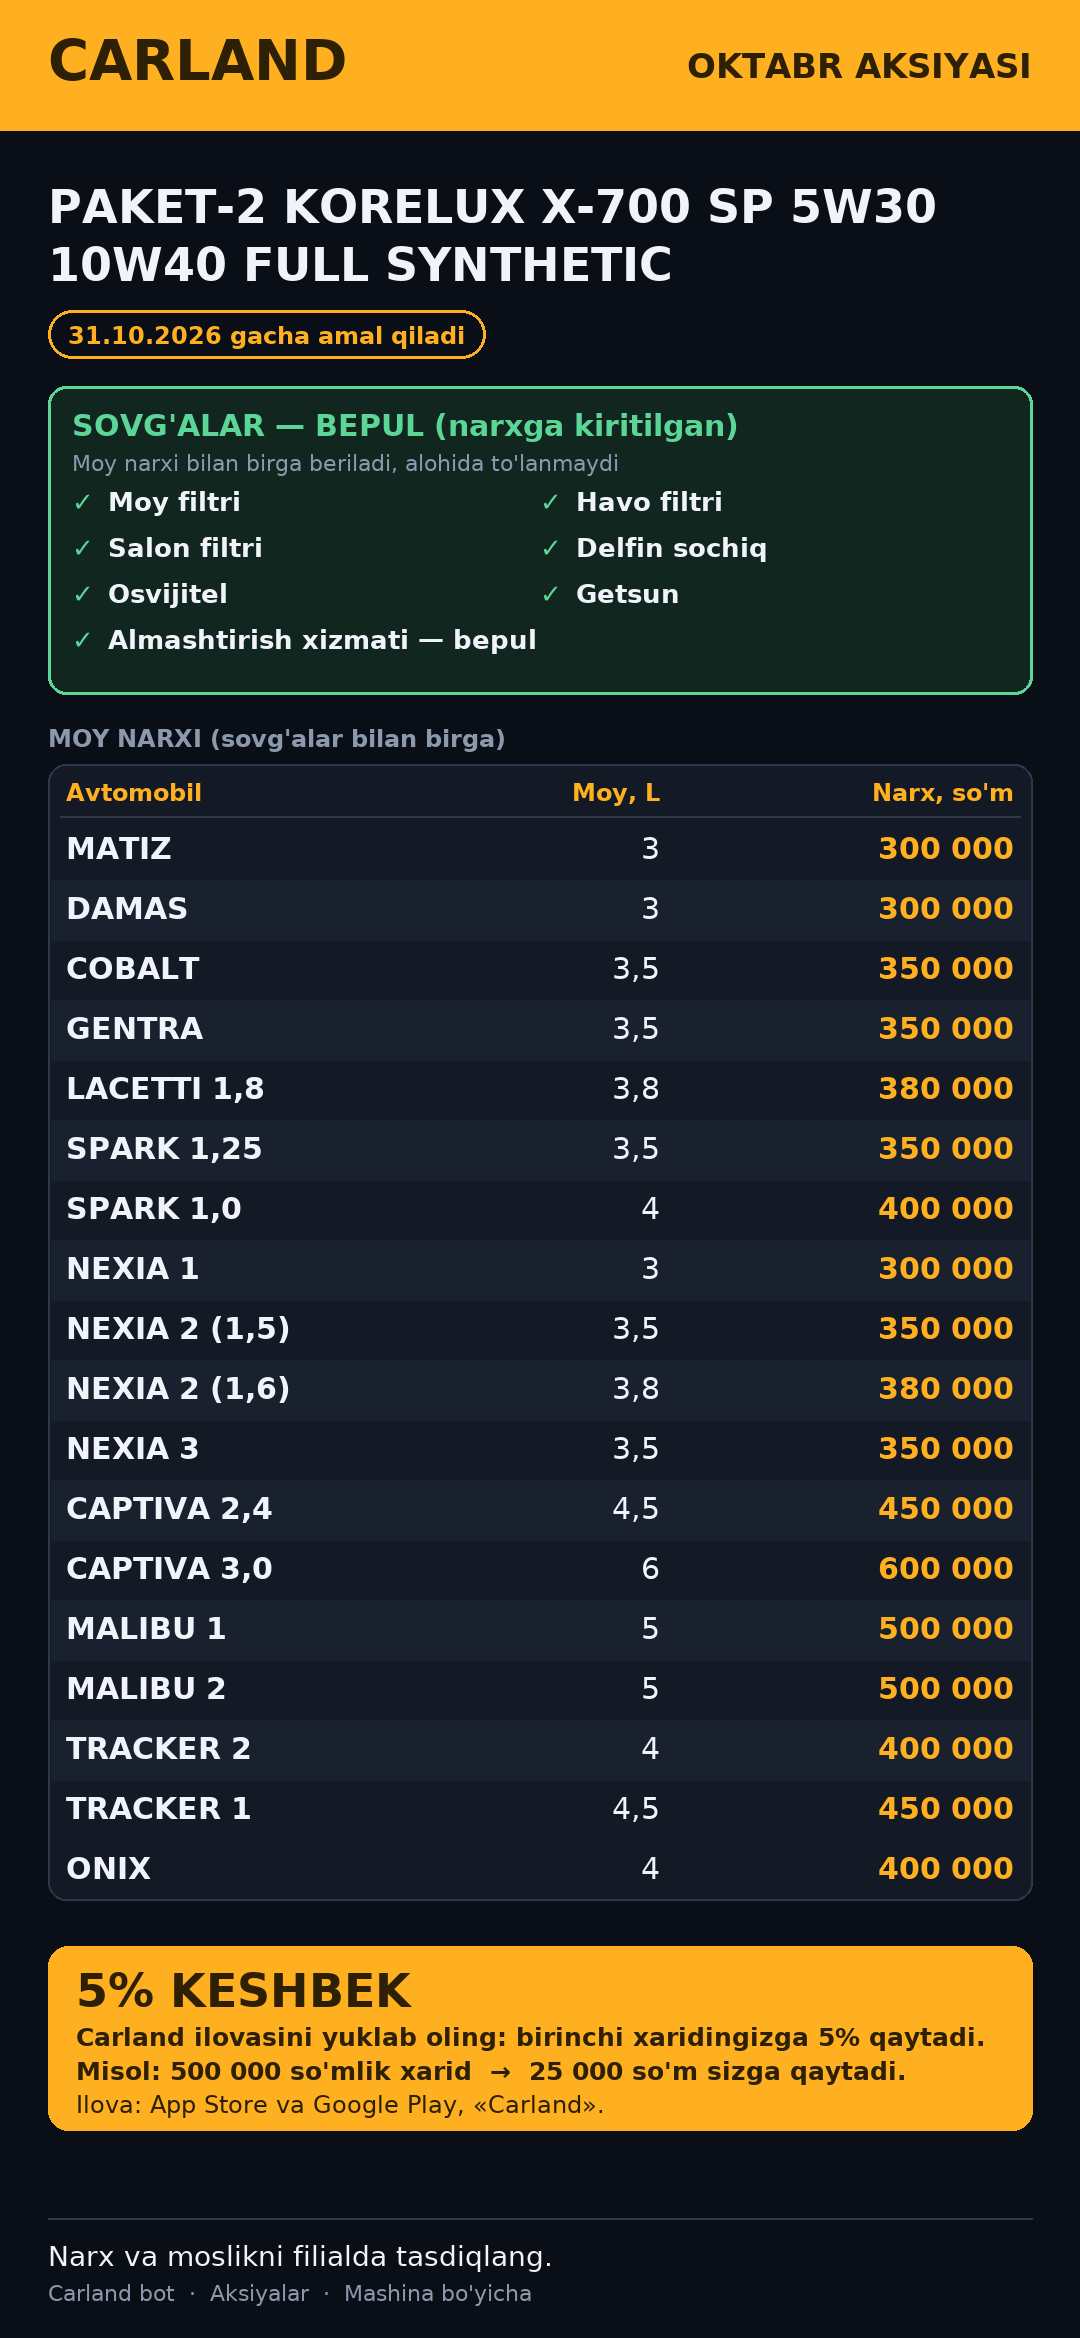
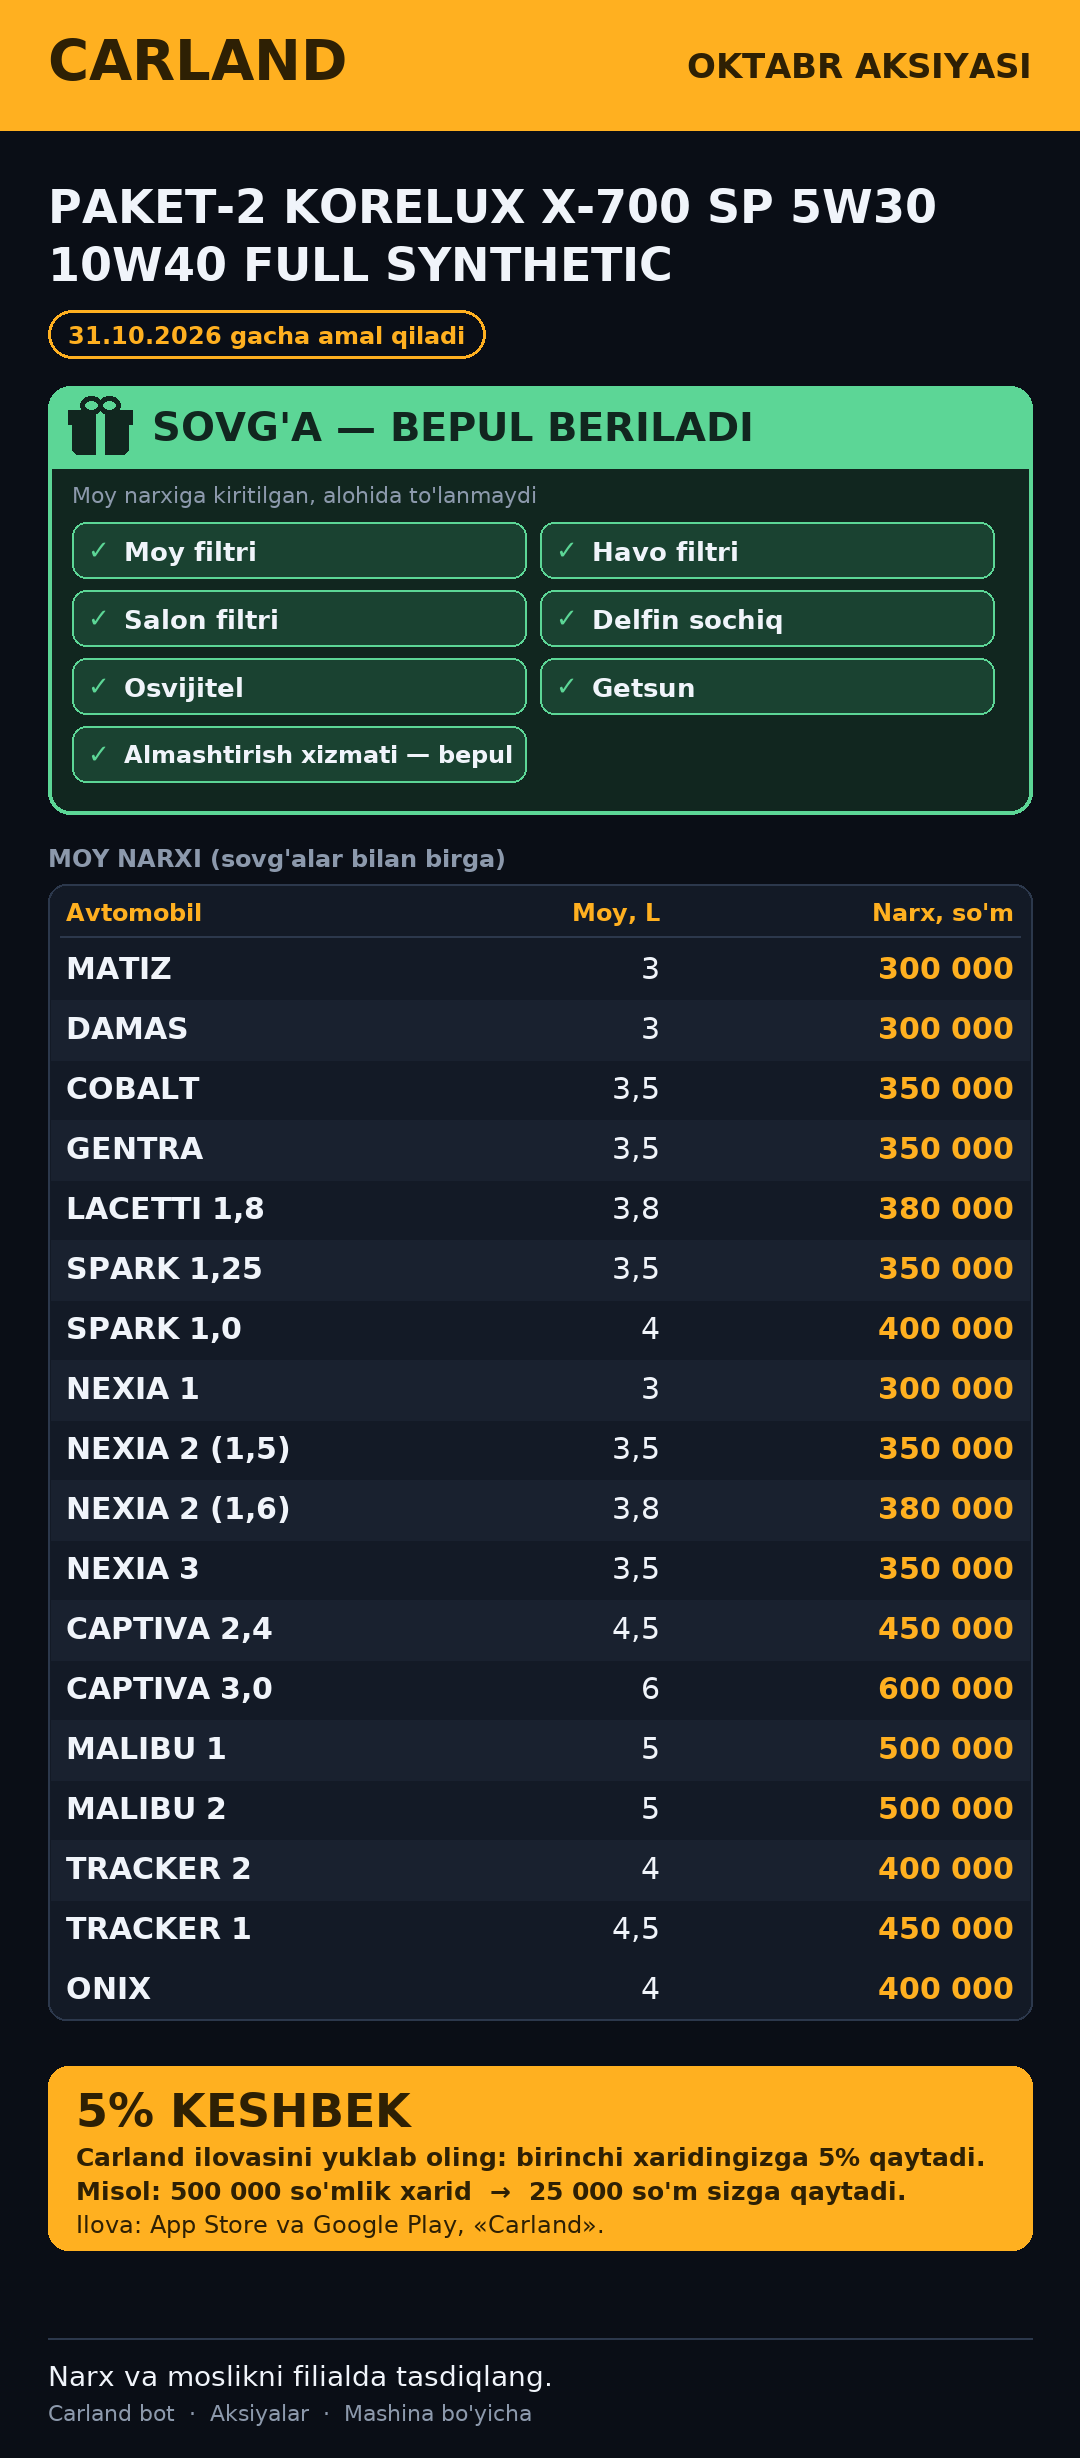
Keshbek va sovg'a ko'zga tashlanadigan: menyuda eng tepada, /keshbek va /aksiya buyruqlari, plakatda katta yashil SOVG'A bloki

Changed region(s): [[0.0306, 0.0, 0.9778, 0.9991]]

diff --git a/bot/promo_posters.py b/bot/promo_posters.py
@@ -191,7 +191,7 @@ def render(key: str, pkg: dict) -> Image.Image:
         gifts.append(text)
     gift_cols = 2
     gift_rows_n = (len(gifts) + gift_cols - 1) // gift_cols
-    h_gifts = (24 + 40 + 36 + gift_rows_n * 46 + 24) if gifts else 0
+    h_gifts = (82 + 54 + gift_rows_n * 68 + 20) if gifts else 0
     h_cash = 230
     row_h = 66 if has_codes or is_ev else 60
     head_h = 78 if is_ev else 56
@@ -220,18 +220,33 @@ def render(key: str, pkg: dict) -> Image.Image:
         d.rounded_rectangle([PAD, ty + 14, PAD + bw, ty + 14 + 48], radius=24, outline=AMBER, width=3)
         d.text((PAD + 20, ty + 14 + 11), label, font=f_head, fill=AMBER)
     ty += 90
-    # sovg'alar bloki (alohida, yashil)
+    # sovg'alar bloki (alohida, yashil, ko'zga tashlanadigan)
     if gifts:
-        d.rounded_rectangle([PAD, ty, W - PAD, ty + h_gifts], radius=18, fill=(17, 38, 31), outline=GREEN, width=3)
-        d.text((PAD + 24, ty + 22), "SOVG'ALAR — BEPUL (narxga kiritilgan)", font=_font(True, 30), fill=GREEN)
-        d.text((PAD + 24, ty + 64), "Moy narxi bilan birga beriladi, alohida to'lanmaydi", font=f_small, fill=MUTED)
-        gy = ty + 24 + 40 + 36
+        GREEN_DARK = (17, 38, 31)
+        d.rounded_rectangle([PAD, ty, W - PAD, ty + h_gifts], radius=22, fill=GREEN_DARK, outline=GREEN, width=4)
+        d.rounded_rectangle([PAD, ty, W - PAD, ty + 82], radius=22, fill=GREEN)
+        d.rectangle([PAD, ty + 50, W - PAD, ty + 82], fill=GREEN)
+        # sovg'a quti belgisi
+        gx, gy = PAD + 24, ty + 14
+        d.rounded_rectangle([gx, gy + 18, gx + 56, gy + 54], radius=6, fill=(17, 38, 31))
+        d.rectangle([gx - 4, gy + 10, gx + 60, gy + 24], fill=(17, 38, 31))
+        d.rectangle([gx + 24, gy + 10, gx + 32, gy + 54], fill=GREEN)
+        d.ellipse([gx + 8, gy - 4, gx + 30, gy + 14], outline=(17, 38, 31), width=5)
+        d.ellipse([gx + 26, gy - 4, gx + 48, gy + 14], outline=(17, 38, 31), width=5)
+        d.text((PAD + 104, ty + 17), "SOVG'A — BEPUL BERILADI", font=_font(True, 40), fill=(17, 38, 31))
+        d.text((PAD + 24, ty + 96), "Moy narxiga kiritilgan, alohida to'lanmaydi", font=f_small, fill=MUTED)
+        gy = ty + 82 + 54
         colw = (inner - 48) // gift_cols
         for i, g in enumerate(gifts):
             cx = PAD + 24 + (i % gift_cols) * colw
-            cy = gy + (i // gift_cols) * 46
-            d.text((cx, cy), "✓", font=f_chip, fill=GREEN)
-            d.text((cx + 36, cy), g, font=f_chip, fill=WHITE)
+            cy = gy + (i // gift_cols) * 68
+            d.rounded_rectangle([cx, cy, cx + colw - 14, cy + 56], radius=14, fill=(26, 66, 49), outline=GREEN, width=2)
+            d.text((cx + 16, cy + 12), "✓", font=f_chip, fill=GREEN)
+            gtxt = g
+            gf = _font(True, 26)
+            while d.textlength(gtxt, font=gf) > colw - 14 - 64 and gf.size > 18:
+                gf = _font(True, gf.size - 1)
+            d.text((cx + 52, cy + 14), gtxt, font=gf, fill=WHITE)
         ty += h_gifts + 30
     d.text((PAD, ty), "MOY NARXI (sovg'alar bilan birga)", font=f_head, fill=MUTED)
     ty += 40

diff --git a/bot/keyboards.py b/bot/keyboards.py
@@ -8,6 +8,9 @@ ADMIN_USERNAME = "carland_01"
 
 def main_menu(lang: str = "uz", has_recent: bool = False):
     rows = [
+        # eng ko'zga tashlanadigan joyda: keshbek va aksiya/sovg'alar
+        [InlineKeyboardButton(t("menu_cashback", lang), callback_data="menu:cashback")],
+        [InlineKeyboardButton(t("menu_promo", lang), callback_data="menu:promohub")],
         [InlineKeyboardButton(t("menu_oilcalc", lang), callback_data="menu:oilcalc:0")],
         [InlineKeyboardButton(t("menu_products", lang), callback_data="menu:products")],
     ]
@@ -19,34 +22,11 @@ def main_menu(lang: str = "uz", has_recent: bool = False):
     rows += [
         [InlineKeyboardButton(t("menu_info", lang), callback_data="menu:info:0")],
         [InlineKeyboardButton(t("menu_branches", lang), callback_data="menu:branches")],
-        [InlineKeyboardButton(t("menu_promo", lang), callback_data="menu:promohub")],
-        [InlineKeyboardButton(t("menu_cashback", lang), callback_data="menu:cashback")],
         [InlineKeyboardButton(t("menu_app_ios", lang), url=config.APP_STORE_URL),
          InlineKeyboardButton(t("menu_app_android", lang), url=config.PLAY_STORE_URL)],
         [InlineKeyboardButton(t("menu_ai", lang), callback_data="menu:ai")],
         [InlineKeyboardButton(t("menu_admin", lang), url=f"https://t.me/{ADMIN_USERNAME}")],
         [InlineKeyboardButton(t("menu_lang", lang), callback_data="menu:lang")],
-    ]
-    return InlineKeyboardMarkup(rows)
-
-
-def cashback_menu(lang: str = "uz"):
-    rows = [
-        [InlineKeyboardButton(t("menu_app_ios", lang), url=config.APP_STORE_URL),
-         InlineKeyboardButton(t("menu_app_android", lang), url=config.PLAY_STORE_URL)],
-        [InlineKeyboardButton(t("menu_admin", lang), url=f"https://t.me/{ADMIN_USERNAME}")],
-        [InlineKeyboardButton(t("home_btn", lang), callback_data="menu:main")],
-    ]
-    return InlineKeyboardMarkup(rows)
-
-
-def promo_hub(lang: str = "uz"):
-    rows = [
-        [InlineKeyboardButton(t("promo_posters_btn", lang), callback_data="promo:posters")],
-        [InlineKeyboardButton(t("promo_by_car_btn", lang), callback_data="menu:promo:0")],
-        [InlineKeyboardButton(t("menu_app_ios", lang), url=config.APP_STORE_URL),
-         InlineKeyboardButton(t("menu_app_android", lang), url=config.PLAY_STORE_URL)],
-        [InlineKeyboardButton(t("back_home_btn", lang), callback_data="menu:main")],
     ]
     return InlineKeyboardMarkup(rows)
 

diff --git a/main.py b/main.py
@@ -11,7 +11,7 @@ from telegram.ext import (
 
 from bot import config
 from bot.handlers.callbacks import route
-from bot.handlers.start import start
+from bot.handlers.start import aksiya_command, keshbek_command, start
 from bot.handlers.stats import stats_command
 from bot.handlers.text import handle_text
 
@@ -36,9 +36,26 @@ def main():
     # foydalanuvchining tili operativ xotiradan o'chib, standart "uz"ga
     # qaytib ketardi) butunlay bartaraf etiladi.
     persistence = PicklePersistence(filepath=str(config.PERSISTENCE_PATH))
-    app = Application.builder().token(config.TELEGRAM_BOT_TOKEN).persistence(persistence).build()
+    async def _post_init(application):
+        # Telegram "Menyu" tugmasidagi buyruqlar ro'yxati
+        from telegram import BotCommand
+
+        try:
+            await application.bot.set_my_commands([
+                BotCommand("start", "Boshlash / Главное меню"),
+                BotCommand("keshbek", "5% keshbek — qanday olinadi"),
+                BotCommand("aksiya", "Aksiyalar va sovg'alar"),
+            ])
+        except Exception:  # noqa: BLE001
+            logging.exception("Buyruqlar ro'yxatini o'rnatib bo'lmadi")
+
+    app = (
+        Application.builder().token(config.TELEGRAM_BOT_TOKEN).persistence(persistence).post_init(_post_init).build()
+    )
 
     app.add_handler(CommandHandler("start", start))
+    app.add_handler(CommandHandler("keshbek", keshbek_command))
+    app.add_handler(CommandHandler("aksiya", aksiya_command))
     app.add_handler(CommandHandler("stats", stats_command))
     app.add_handler(CallbackQueryHandler(route))
     app.add_handler(MessageHandler(filters.TEXT & ~filters.COMMAND, handle_text))

diff --git a/bot/i18n.py b/bot/i18n.py
@@ -33,7 +33,7 @@ TEXT = {
             "Начните с меню ниже 👇"
         ),
     },
-    "menu_cashback": {"uz": "💳 Keshbek 5% — qanday olinadi?", "ru": "💳 Кешбэк 5% — как получить?"},
+    "menu_cashback": {"uz": "💳 5% KESHBEK — qanday olinadi?", "ru": "💳 КЕШБЭК 5% — как получить?"},
     "cashback_full": {
         "uz": (
             "💳 *CARLAND KESHBEK — 5%*\n\n"
@@ -73,7 +73,7 @@ TEXT = {
     "menu_products": {"uz": "🔧 Mahsulotlar", "ru": "🔧 Товары"},
     "menu_info": {"uz": "🖼 Infografika (motor/karobka/reduktor)", "ru": "🖼 Инфографика (двигатель/КПП/редуктор)"},
     "menu_branches": {"uz": "📍 Filiallar", "ru": "📍 Филиалы"},
-    "menu_promo": {"uz": "🎉 Aksiyalar", "ru": "🎉 Акции"},
+    "menu_promo": {"uz": "🎁 Aksiyalar va sovg'alar", "ru": "🎁 Акции и подарки"},
     "promo_hub_title": {
         "uz": "🎉 *Aksiyalar* — nimani ko'rmoqchisiz?\n\n💳 *5% keshbek*: Carland ilovasini yuklab oling — birinchi xaridga 5% qaytadi.",
         "ru": "🎉 *Акции* — что показать?\n\n💳 *Кешбэк 5%*: скачайте приложение Carland — на первую покупку вернём 5%.",

diff --git a/bot/handlers/start.py b/bot/handlers/start.py
@@ -38,3 +38,13 @@ async def start(update: Update, context: ContextTypes.DEFAULT_TYPE):
         reply_markup=keyboards.main_menu(lang, has_recent=bool(recent_cars)),
         parse_mode="Markdown",
     )
+
+
+async def keshbek_command(update: Update, context: ContextTypes.DEFAULT_TYPE):
+    lang = context.user_data.get("lang", "uz")
+    await update.message.reply_text(t("cashback_full", lang), reply_markup=keyboards.cashback_menu(lang), parse_mode="Markdown")
+
+
+async def aksiya_command(update: Update, context: ContextTypes.DEFAULT_TYPE):
+    lang = context.user_data.get("lang", "uz")
+    await update.message.reply_text(t("promo_hub_title", lang), reply_markup=keyboards.promo_hub(lang), parse_mode="Markdown")
